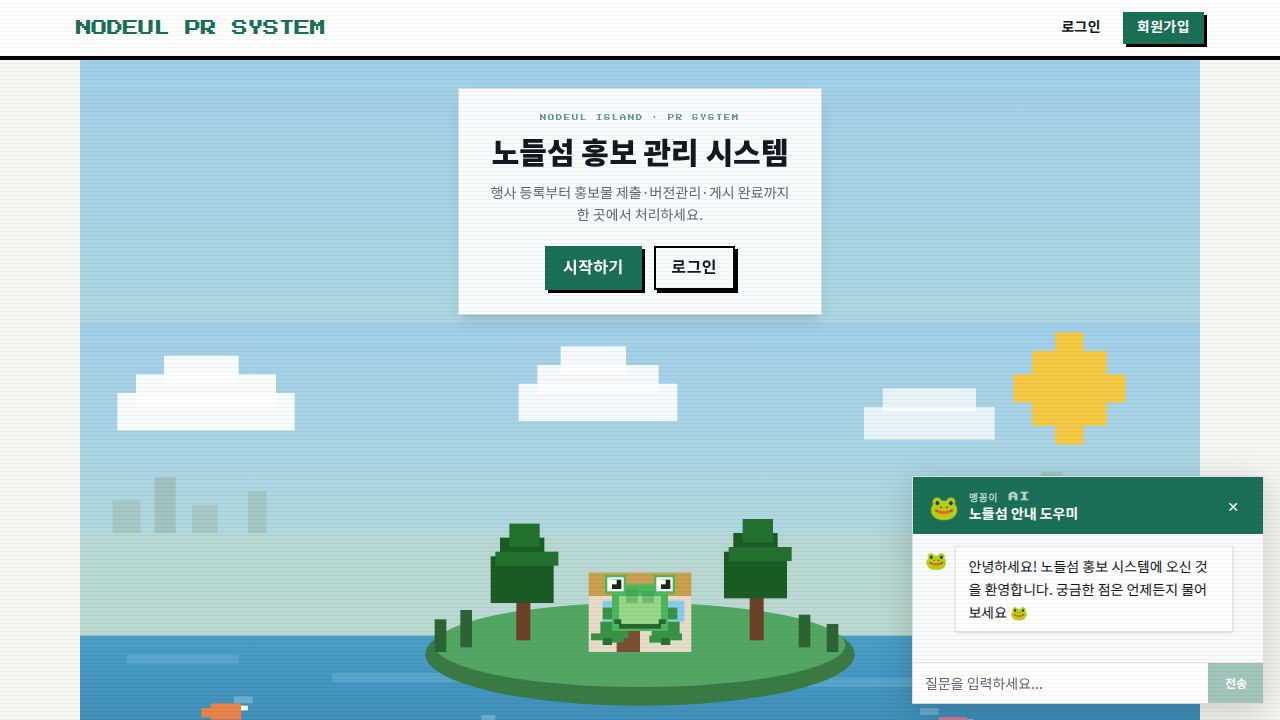
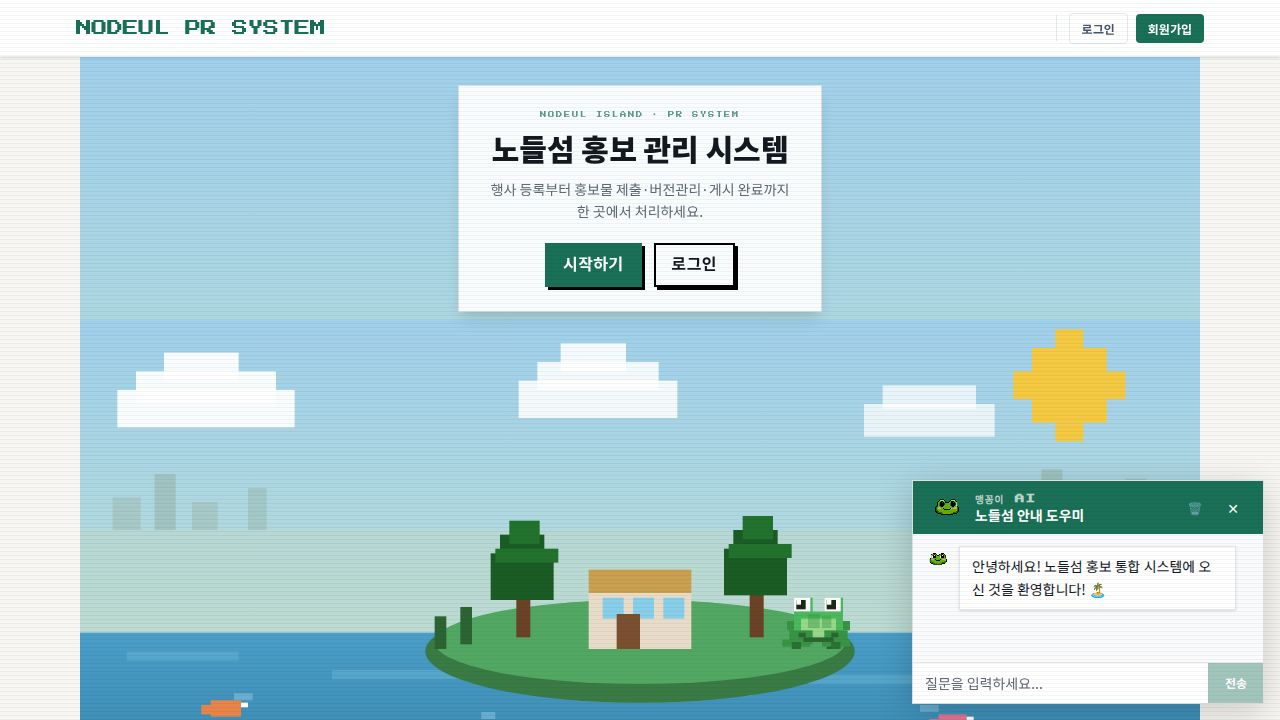
Visual edit
Replit-Commit-Author: Agent
Replit-Commit-Session-Id: 97e77319-2ddf-485b-aa65-5a0adb09802e
Replit-Commit-Checkpoint-Type: full_checkpoint
Replit-Commit-Event-Id: c9b2d5d6-7268-4c12-9336-449707249f9b
Replit-Commit-Screenshot-Url: https://storage.googleapis.com/screenshot-production-us-central1/0bfc652e-3458-4788-a116-97b64ded9e01/97e77319-2ddf-485b-aa65-5a0adb09802e/ImTvj1L
Replit-Helium-Checkpoint-Created: true

diff --git a/artifacts/nodeul-pr/src/pages/DashboardPage.tsx b/artifacts/nodeul-pr/src/pages/DashboardPage.tsx
@@ -96,12 +96,10 @@ export default function DashboardPage() {
       <div className="bg-white border border-slate-200 rounded-lg px-5 py-4">
         <StepGuide currentStep={questStep} />
       </div>
-
       {/* 맹꽁이 말풍선 */}
       <MaengkongiSpeech mood={revisionCount > 0 ? "alert" : approvedCount > 0 ? "cheer" : "normal"}>
         {froggMsg}
       </MaengkongiSpeech>
-
       {/* 헤더 */}
       <div className="flex items-center justify-between">
         <div>
@@ -120,11 +118,10 @@ export default function DashboardPage() {
           </button>
         </Link>
       </div>
-
       {/* 테이블 */}
       <div className="border border-black/10 rounded-lg bg-white overflow-hidden">
         <div className="px-4 py-3 border-b border-black/8 bg-zinc-50/60 flex items-center justify-between">
-          <h2 className="text-sm font-semibold text-foreground" style={KR}>신청 목록</h2>
+          <h2 className="text-sm font-semibold text-foreground" style={KR}>🏝️ 나의 행사 리스트</h2>
         </div>
 
         {isLoading ? (